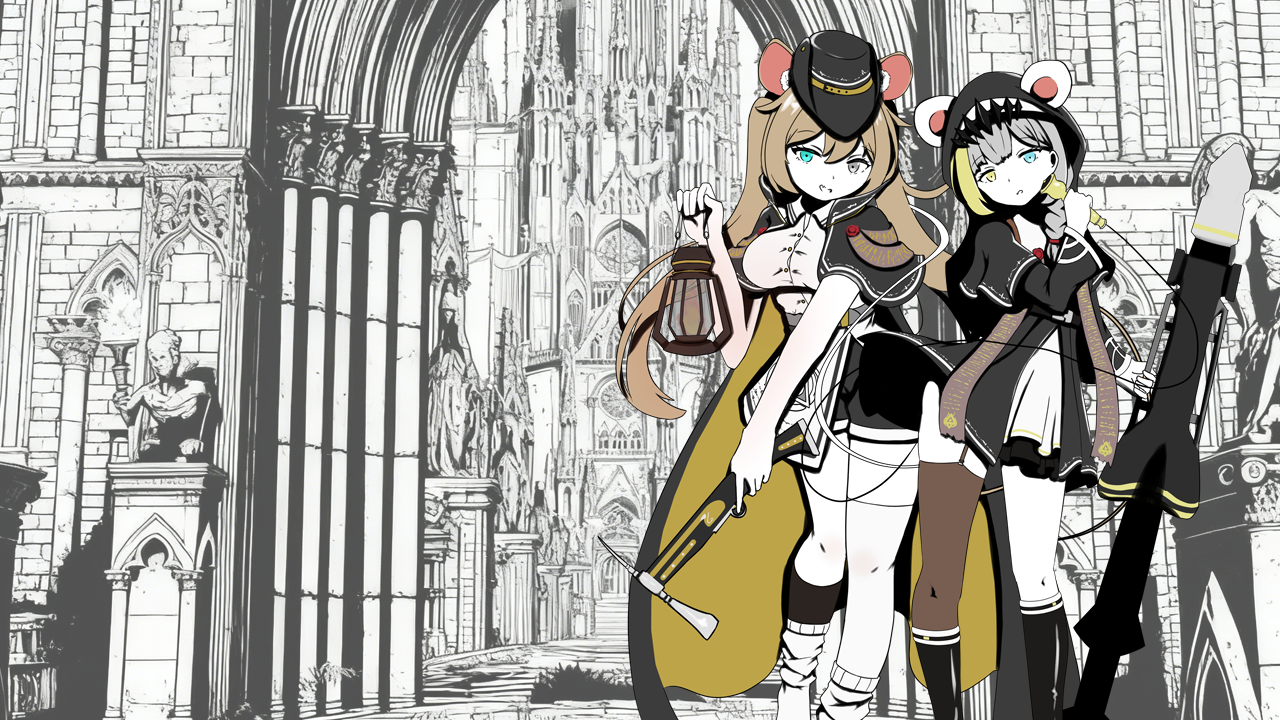
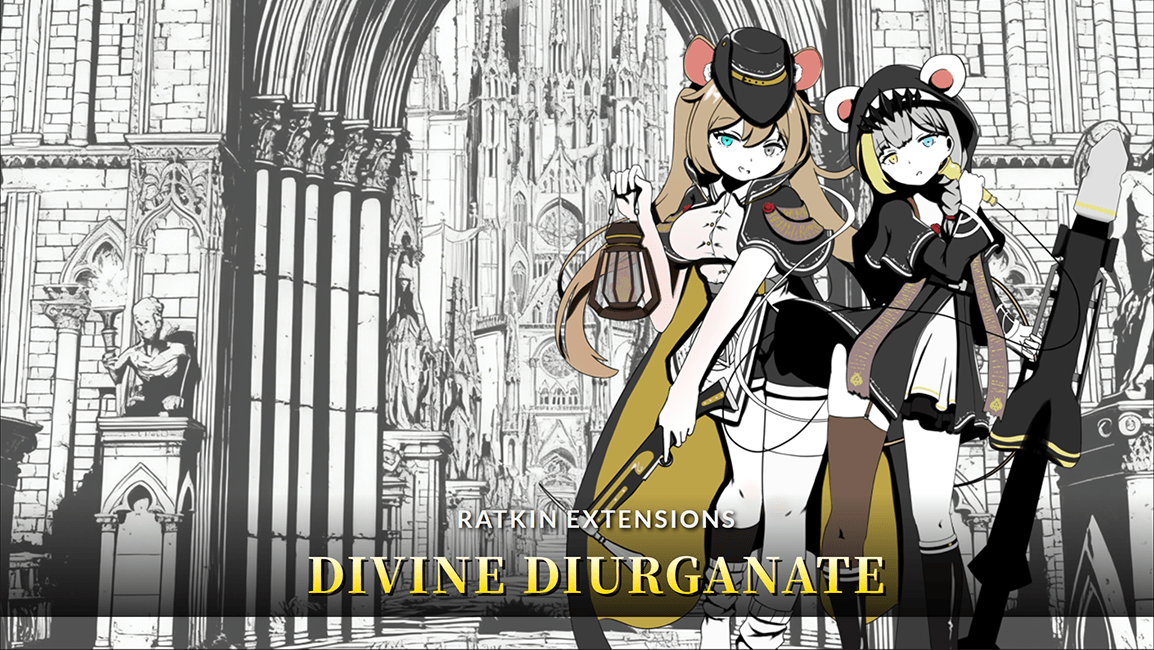
zc

diff --git a/About/cover_design.html b/About/cover_design.html
@@ -1,0 +1,91 @@
+<!DOCTYPE html>
+<html>
+<head>
+<style>
+    @import url('https://fonts.googleapis.com/css2?family=Cinzel:wght@700;900&family=Lato:wght@400;700&display=swap');
+
+    body, html { margin: 0; padding: 0; width: 100%; height: 100%; overflow: hidden; background: #222; display: flex; align-items: center; justify-content: center; }
+    
+    #canvas {
+        position: relative;
+        /* We will set width/height via JS or just assume a standard mod preview size */
+        /* RimWorld previews are often 640x360, but can be anything. Use the image's intrinsic size? */
+        display: inline-block;
+        box-shadow: 0 0 20px rgba(0,0,0,0.5);
+    }
+    
+    #bg-img {
+        display: block;
+        max-width: 90vw;
+        max-height: 90vh;
+    }
+
+    .overlay {
+        position: absolute;
+        bottom: 5%;
+        left: 0;
+        width: 100%;
+        text-align: center;
+        pointer-events: none;
+    }
+
+    .title-group {
+        display: inline-block;
+        padding: 10px 20px;
+        /* slightly dark background/gradient behind text for readability? */
+        background: linear-gradient(to top, rgba(0,0,0,0.8), rgba(0,0,0,0));
+        width: 100%;
+    }
+
+    .subtitle {
+        font-family: 'Lato', sans-serif;
+        font-size: 1.5em; /* Relative to container base font size? */
+        font-weight: 700;
+        color: #f0f0f0;
+        text-shadow: 2px 2px 4px #000;
+        text-transform: uppercase;
+        letter-spacing: 0.1em;
+        margin-bottom: 5px;
+    }
+
+    .main-title {
+        font-family: 'Cinzel', serif;
+        font-size: 3em;
+        font-weight: 900;
+        color: #fff;
+        text-transform: uppercase;
+        letter-spacing: 0.05em;
+        
+        /* Gold gradient effect */
+        background: linear-gradient(180deg, #fff 20%, #ffd700 80%);
+        -webkit-background-clip: text;
+        -webkit-text-fill-color: transparent;
+        
+        /* Strong drop shadow/outline to separate from background */
+        filter: drop-shadow(3px 3px 0px rgba(0,0,0,0.8));
+    }
+
+</style>
+</head>
+<body>
+    <div id="canvas">
+        <img id="bg-img" src="preview_source.png" onload="adjustScale()">
+        <div class="overlay">
+            <div class="title-group">
+                <div class="subtitle">Ratkin Extensions</div>
+                <div class="main-title">Divine Diurganate</div>
+            </div>
+        </div>
+    </div>
+
+    <script>
+        function adjustScale() {
+            // Adjust font sizes based on image width
+            const img = document.getElementById('bg-img');
+            const width = img.width;
+            const fontSize = width / 20; // 32px for 640px width
+            document.body.style.fontSize = fontSize + 'px';
+        }
+    </script>
+</body>
+</html>
